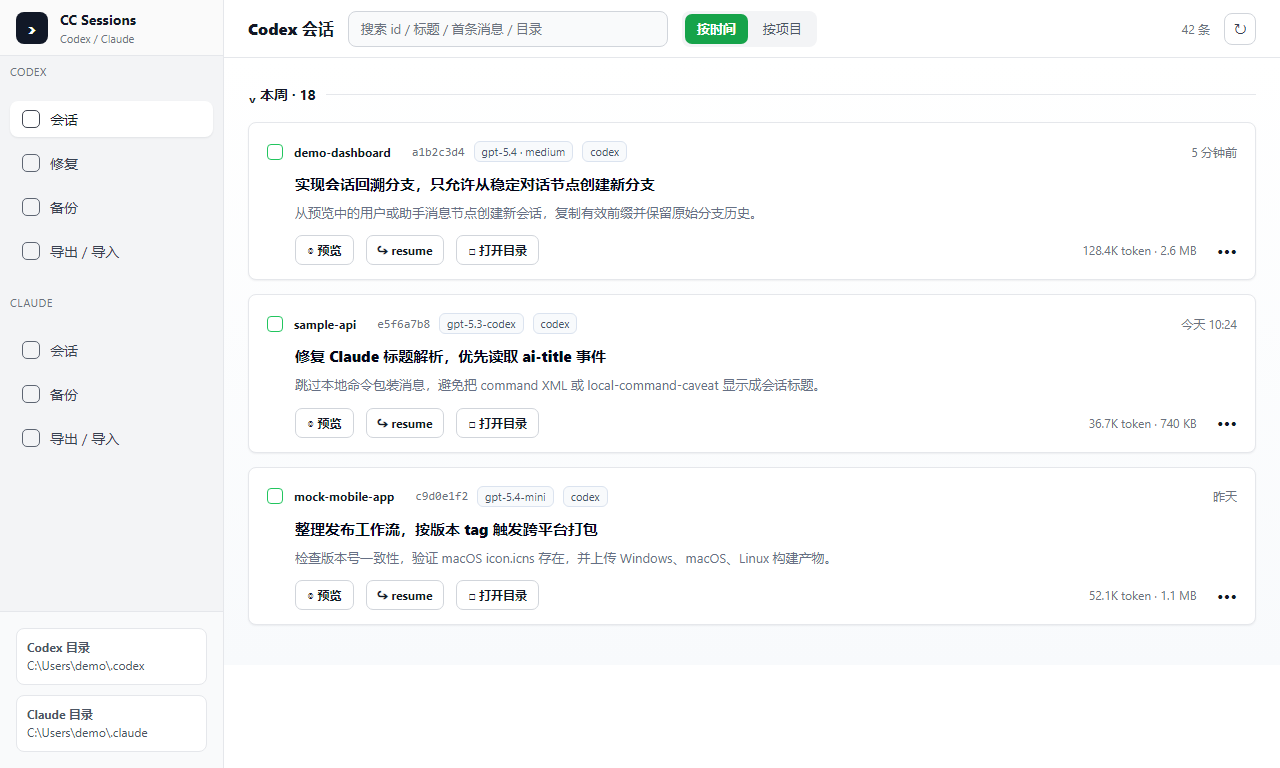
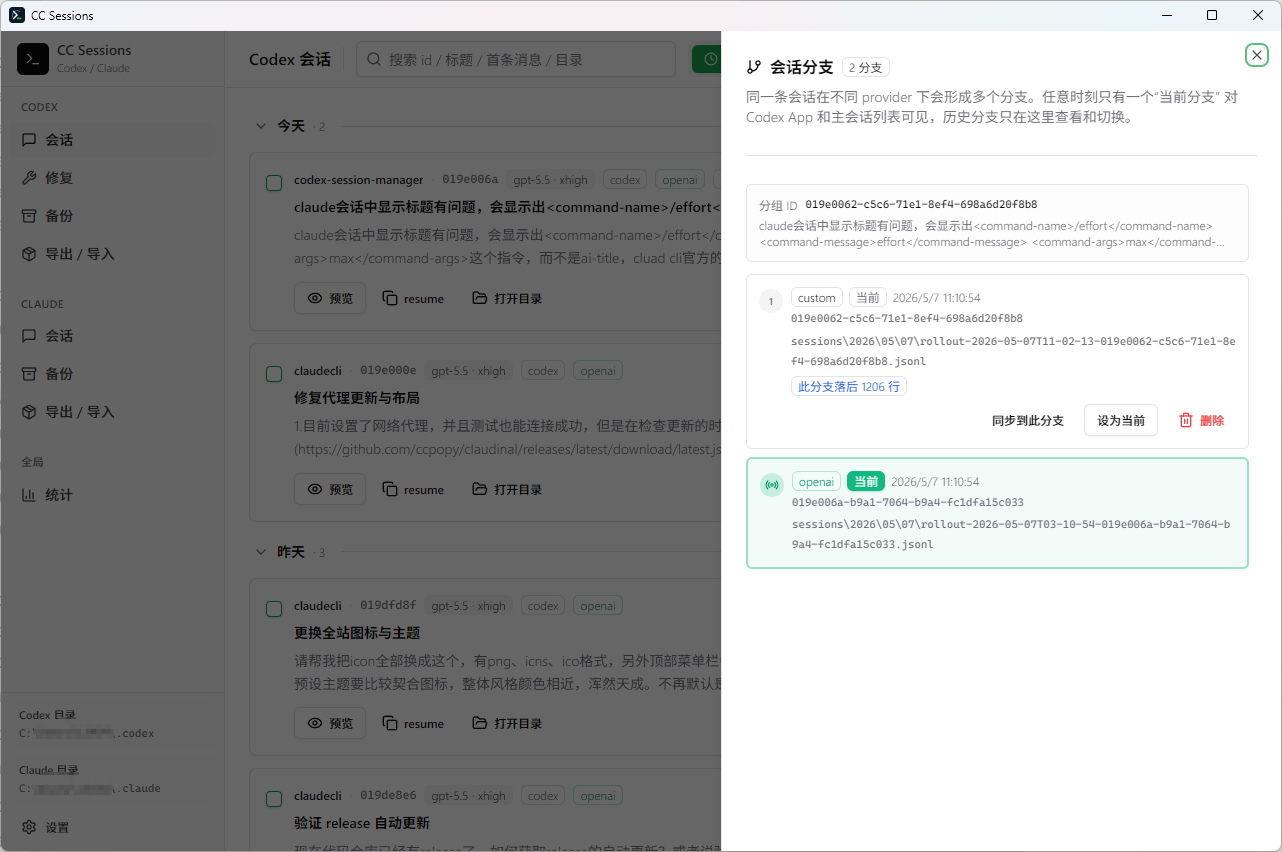
build(release): 增加 Windows 便携版可执行文件

diff --git a/README.md b/README.md
@@ -70,6 +70,8 @@ git push origin v0.2.5
 
 工作流会在 Windows、macOS 和 Linux 上分别构建 Tauri 安装产物。macOS 打包要求 `src-tauri/icons/icon.icns` 存在，本仓库已提交 Tauri 生成的跨平台图标文件。
 
+Windows Release 会额外上传 `cc-session-manager-portable-v版本号-windows.exe`，这是无需安装即可直接运行的便携版可执行文件。
+
 ## 手动打包
 
 生成源码包：
@@ -83,6 +85,8 @@ npm run package:source
 ```bash
 npm run package:portable
 ```
+
+在 Windows 上，该命令会同时生成便携版压缩包和可直接运行的 `cc-session-manager-portable-v版本号-windows.exe`。
 
 生成安装器包：
 